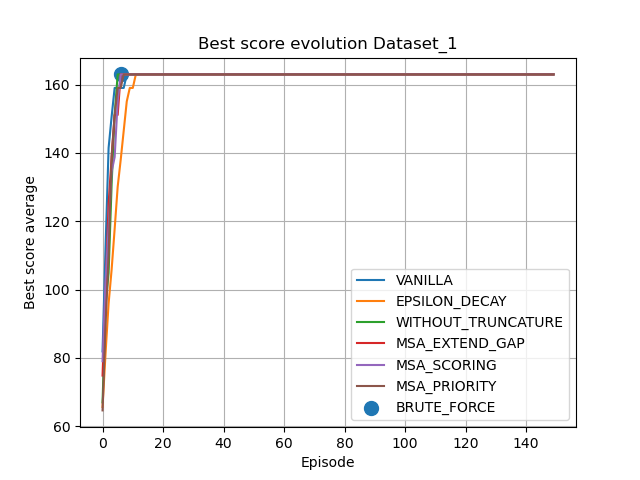
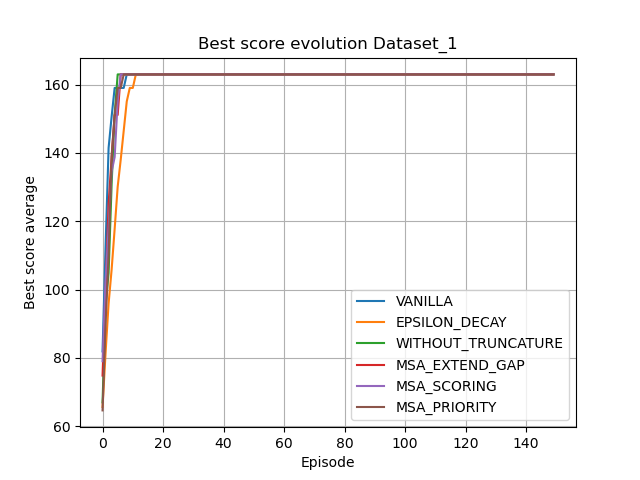
[UPDATE] remove brute force in plot

diff --git a/src/new_plot.py b/src/new_plot.py
@@ -112,7 +112,7 @@ def normal_plot(data,stop_to,name_experiment):
         time_series = list_time_series[index]
         plot(time_series,stop_to,label)
 
-    plt.scatter(bf_number_permutation,bf_time,s=100,label="BRUTE_FORCE")
+    #plt.scatter(bf_number_permutation,bf_time,s=100,label="BRUTE_FORCE")
 
     plt.legend()
     plt.savefig("../ultimate_plot/"+ name_experiment + "_time_plot.png")
@@ -127,7 +127,7 @@ def normal_plot(data,stop_to,name_experiment):
         best_score = list_best_score[index]
         plot(best_score,stop_to,label)
 
-    plt.scatter(bf_number_permutation, bf_best_score, s=100, label="BRUTE_FORCE")
+    #plt.scatter(bf_number_permutation, bf_best_score, s=100, label="BRUTE_FORCE")
     plt.legend()
     plt.savefig("../ultimate_plot/"+ name_experiment + "_best_score_plot.png")
     plt.clf()
